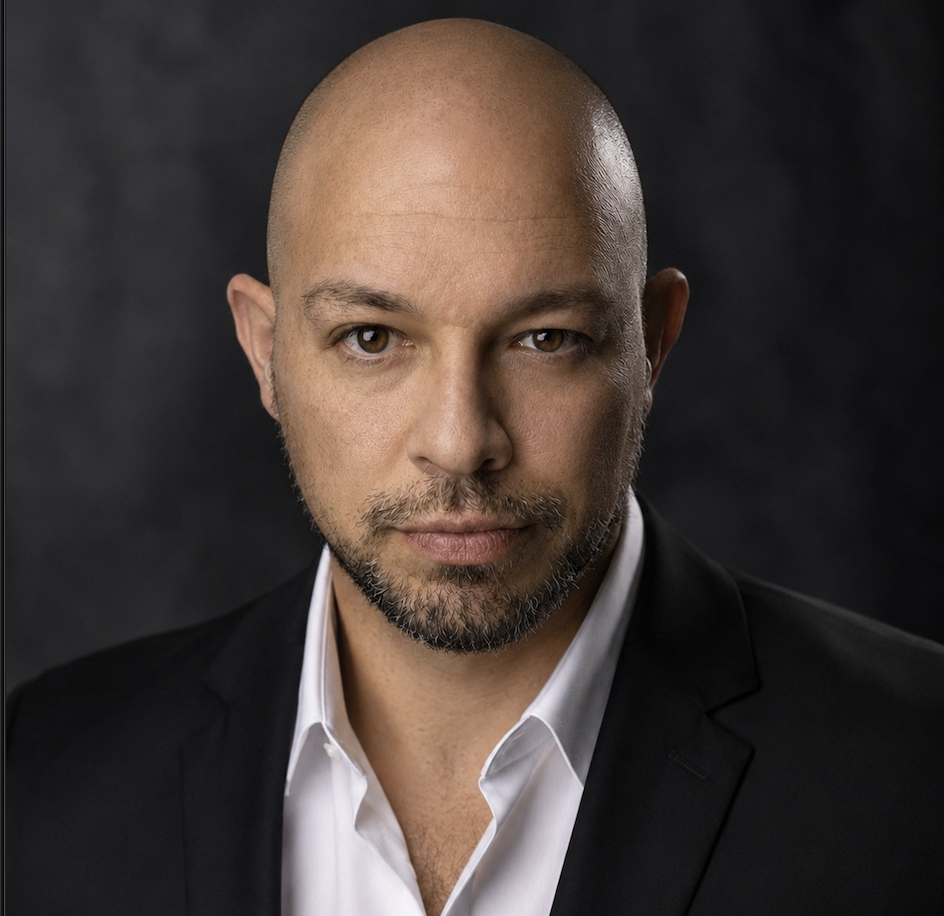
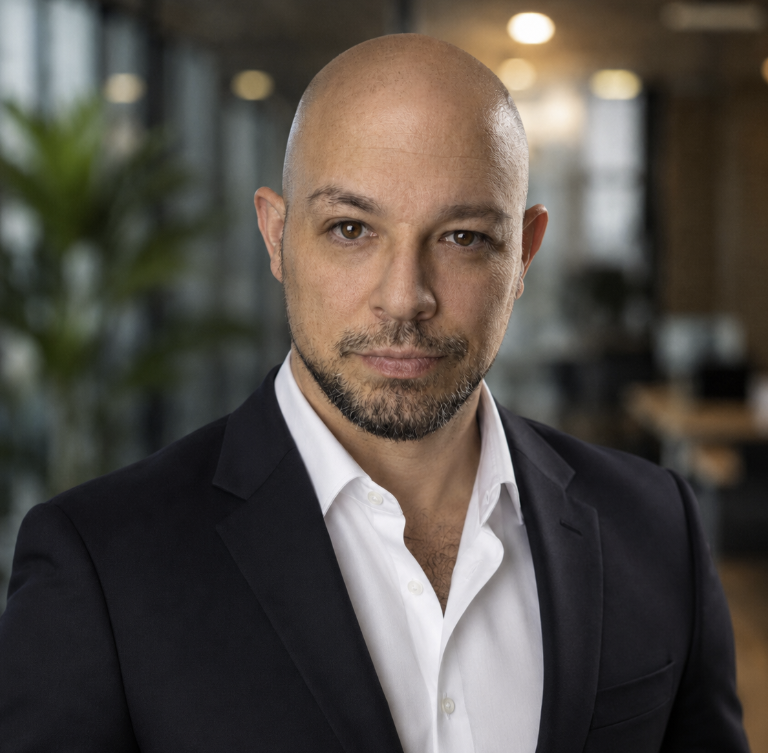
Refine portal heading and update Isaac profile

diff --git a/src/pages/CompanyPage.tsx b/src/pages/CompanyPage.tsx
@@ -70,9 +70,9 @@ const leaders = [
   },
   {
     name: "Isaac Harrison",
-    title: "Head of Product and Analytics",
+    title: "Head of Product & Analytics",
     image: "assets/company/isaac-harrison-portrait.png",
-    alt: "Isaac Harrison, Head of Product and Analytics at Zacoustic",
+    alt: "Isaac Harrison, Head of Product & Analytics at Zacoustic",
     bio: "Isaac joined Zacoustic in 2023 and has played a key role in driving client success through data, product strategy, and operational insight. With over 20 years of experience in call center and B2B environments, he brings deep expertise in analytics, customer experience, and performance improvement. Isaac has led teams of data scientists and audit researchers, managed large-scale data collection and distribution, and helped clients improve customer satisfaction through practical, data-driven solutions. His strengths span product development, design, analytics, and problem-solving, making him a major contributor to Zacoustic's continued growth and client results.",
   },
 ];

diff --git a/src/styles/theme.css b/src/styles/theme.css
@@ -326,7 +326,7 @@
   margin: 0;
   color: #242424;
   font-family: "Instrument Serif", Georgia, serif;
-  font-size: clamp(105px, 9.5vw, 164px);
+  font-size: clamp(92px, 8vw, 138px);
   font-weight: 400;
   line-height: 0.82;
   letter-spacing: -0.04em;